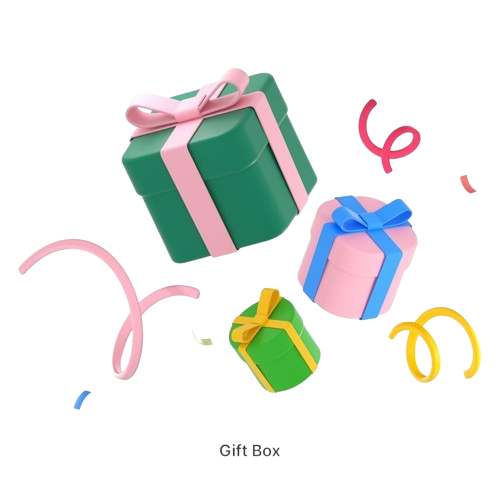
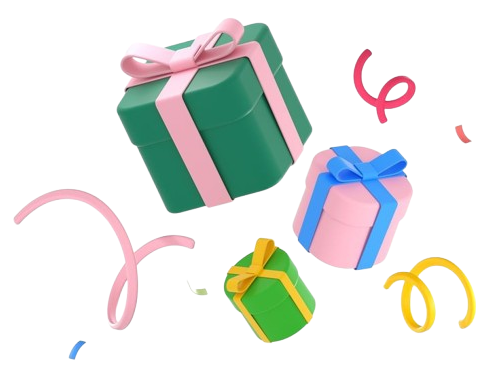
Primer commit

diff --git a/home/html/anuncio.css b/home/html/anuncio.css
@@ -1,0 +1,111 @@
+body{
+    margin:0;
+    padding:0;
+    box-sizing:border-box;
+    font-family: sans-serif;
+    background:#ffffff;
+}
+.overlay{
+    height:100vh;
+    display:flex;
+    justify-content:center;
+    align-items:center;
+    display: none;
+}
+/*LA ANIMATION EN POPUP ES PARTE DEL KEYFRAME. ESO SIRVE PARA QUE EL POP-UP ABRA CON SUAVIDAD (ANIMACIÓN PS)*/
+.popup{
+    width:300px;
+    height: 400px;
+    background:rgb(255, 255, 255);
+    border-radius:20px;
+    padding:25px;
+    box-shadow:0 10px 25px rgba(0,0,0,0.2);
+    position:relative; 
+    animation: aparecer .4s ease;
+}
+@keyframes aparecer{
+    from{
+        opacity: 0;
+        transform: scale(.8);
+    }
+    to{
+        opacity: 1;
+        transform: scale(1);
+    }
+}
+
+.close{
+    position: absolute;
+    top: -10px;
+    right: -3px;
+    width: 30px;
+    height: 30px;
+    padding:10px;
+    border-radius:50%;
+    border:none;
+    background: #e7e7e760;
+    color: #383838;
+    font-size: 18px;
+    cursor: pointer;
+    display: flex;
+    justify-content: center;
+    align-items: center;
+}
+.contenido{
+    display:flex;
+    justify-content:space-between;
+    align-items:center;
+}
+.contenido{
+   position: absolute;
+    top: -45px;
+    left: -50px;
+    right: 10px;
+    margin: 80px;
+    padding-right: 50px;
+}
+.texto h2{
+    color:#333;
+    margin-bottom:10px;
+}
+.texto p{
+    color:#666;
+    margin-bottom:20px;
+    font-size:18px;
+}
+span{
+    background: linear-gradient(135deg, rgb(13,110,253), rgb(144,198,252));
+    -webkit-background-clip: text;
+    -webkit-text-fill-color: transparent;
+    font-weight: 600;
+}
+.img-popupMed{
+    position:absolute;
+    right: 315px;
+    bottom: 410px;
+    z-index:3;
+    width: 60px;
+}
+.img-popupReg{
+    position:absolute;
+    right: 145px;
+    bottom: -10px;
+    z-index:3;
+    width: 210px;
+    transform: rotateZ(7deg);
+}
+.img-popupCup{
+    position:absolute;
+    right: -2px;
+    bottom: 185px;
+    z-index:3;
+    width: 170px;
+}
+.img-popupFes{
+    position:absolute;
+    right: -22px;
+    bottom: -4px;
+    z-index:3;
+    width: 160px;
+    transform: rotateZ(9deg);
+}

diff --git a/home/html/anuncio.html b/home/html/anuncio.html
@@ -1,0 +1,45 @@
+<!DOCTYPE html>
+<html lang="es">
+<head>
+    <meta charset="UTF-8">
+    <meta name="viewport" content="width=device-width, initial-scale=1.0">
+    <title>Ventana de Bienvenida</title>
+    <link rel="stylesheet" href="anuncio.css">
+</head>
+<body>
+    <div class="overlay" id="popup">
+        <div class="popup">
+            <button class="close" onclick="cerrarPopup()">✕</button>
+            
+            <img src="img/medalla.png" class="img-popupMed">
+            <img src="img/regalos.png" class="img-popupReg">
+            <img src="img/cupon.png" class="img-popupCup">
+             <img src="img/festejo.png" class="img-popupFes">
+
+            <div class="contenido">
+                <div class="texto">
+                    <br>
+                    <h2>¡Bienvenido!</h2>
+                    <p>Aprovecha el descuento en tus primeras <span>tres</span> sesiones.
+                        ¡No te lo pierdas!</p>
+                </div>
+            </div>
+        </div>
+    </div>
+    
+<!--Script para cerrar el popup-->
+<script>
+    function cerrarPopup() {
+    document.getElementById("popup").style.display = "none";
+    }
+</script>
+<!--Script para pop-up-->
+<script>
+    window.onload = function () {
+    setTimeout(function () {
+        document.getElementById("popup").style.display = "flex";
+    }, 2000);
+};
+</script>
+</body>
+</html>